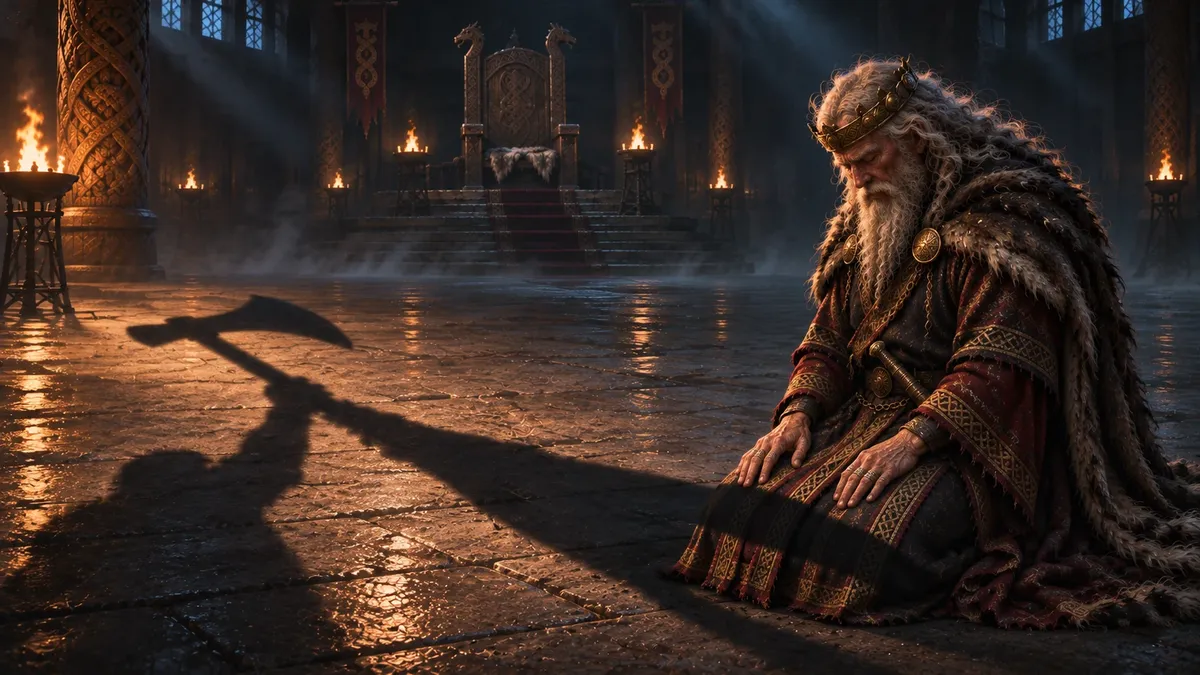
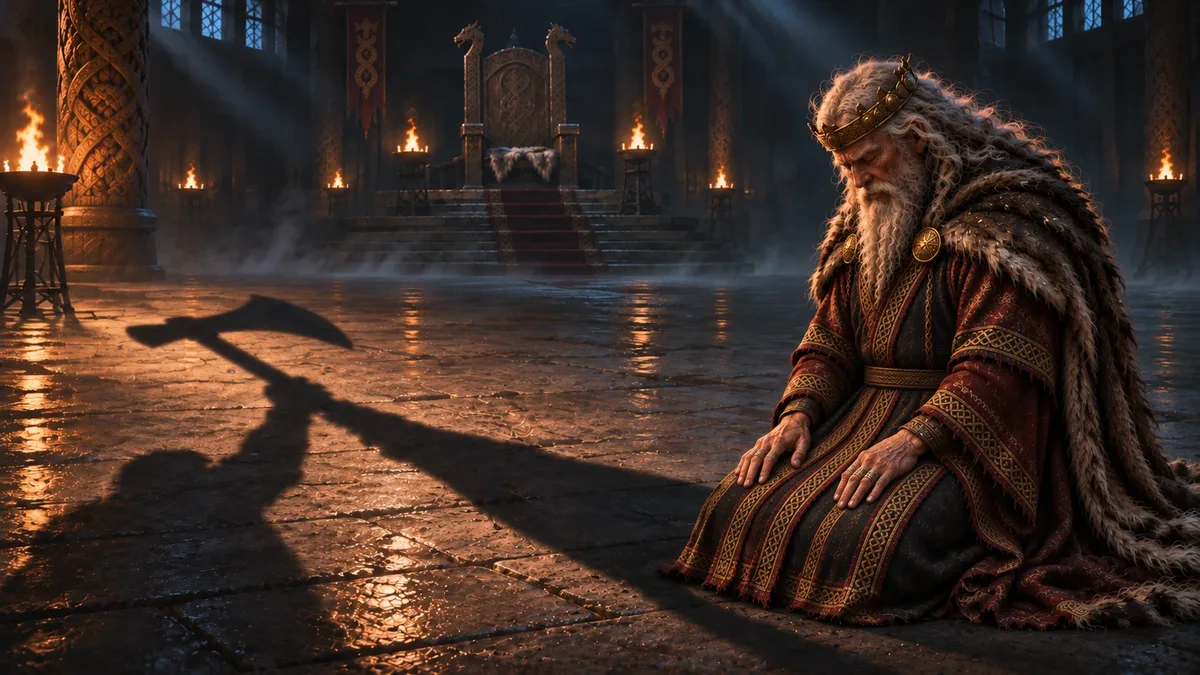
Redraw execution and empty-hall king scenes
Claude-Session: https://claude.ai/code/session_018DsforeThe2Xf67NaWvTXc

diff --git a/viking-game/art-prompts.md b/viking-game/art-prompts.md
@@ -244,7 +244,7 @@ Outside the gates of Paris: a line of Frankish ox-carts loaded with chests of si
 - 所有人的視線方向要對：我方看向橋、巨人看向我方或老王。
 - 老王的劍是一把「長而重的古劍」，有王冠狼頭劍柄、金色繩結護手。
 
-**可選的重畫**（不畫也可以）：第一批的 sc_k_exec、sc_k_hall，見最下面「可選重畫」。
+
 
 老王離世、後事、諸神黃昏歸來的分鏡用圖。還沒畫好之前，遊戲會先用老王現有的立繪代替。每一段都已經包含共用風格，整段直接貼給 ChatGPT 就好。
 
@@ -342,7 +342,7 @@ Old King Halfdan of Norway (around seventy, long white hair and beard, gold knot
 
 ---
 
-## 可選重畫（第一批的兩張，不畫也可以）
+## ✅ 可選重畫（第一批的兩張，已收到）
 
 ### sc_k_exec（處決：腰間不要再掛武器）
 
